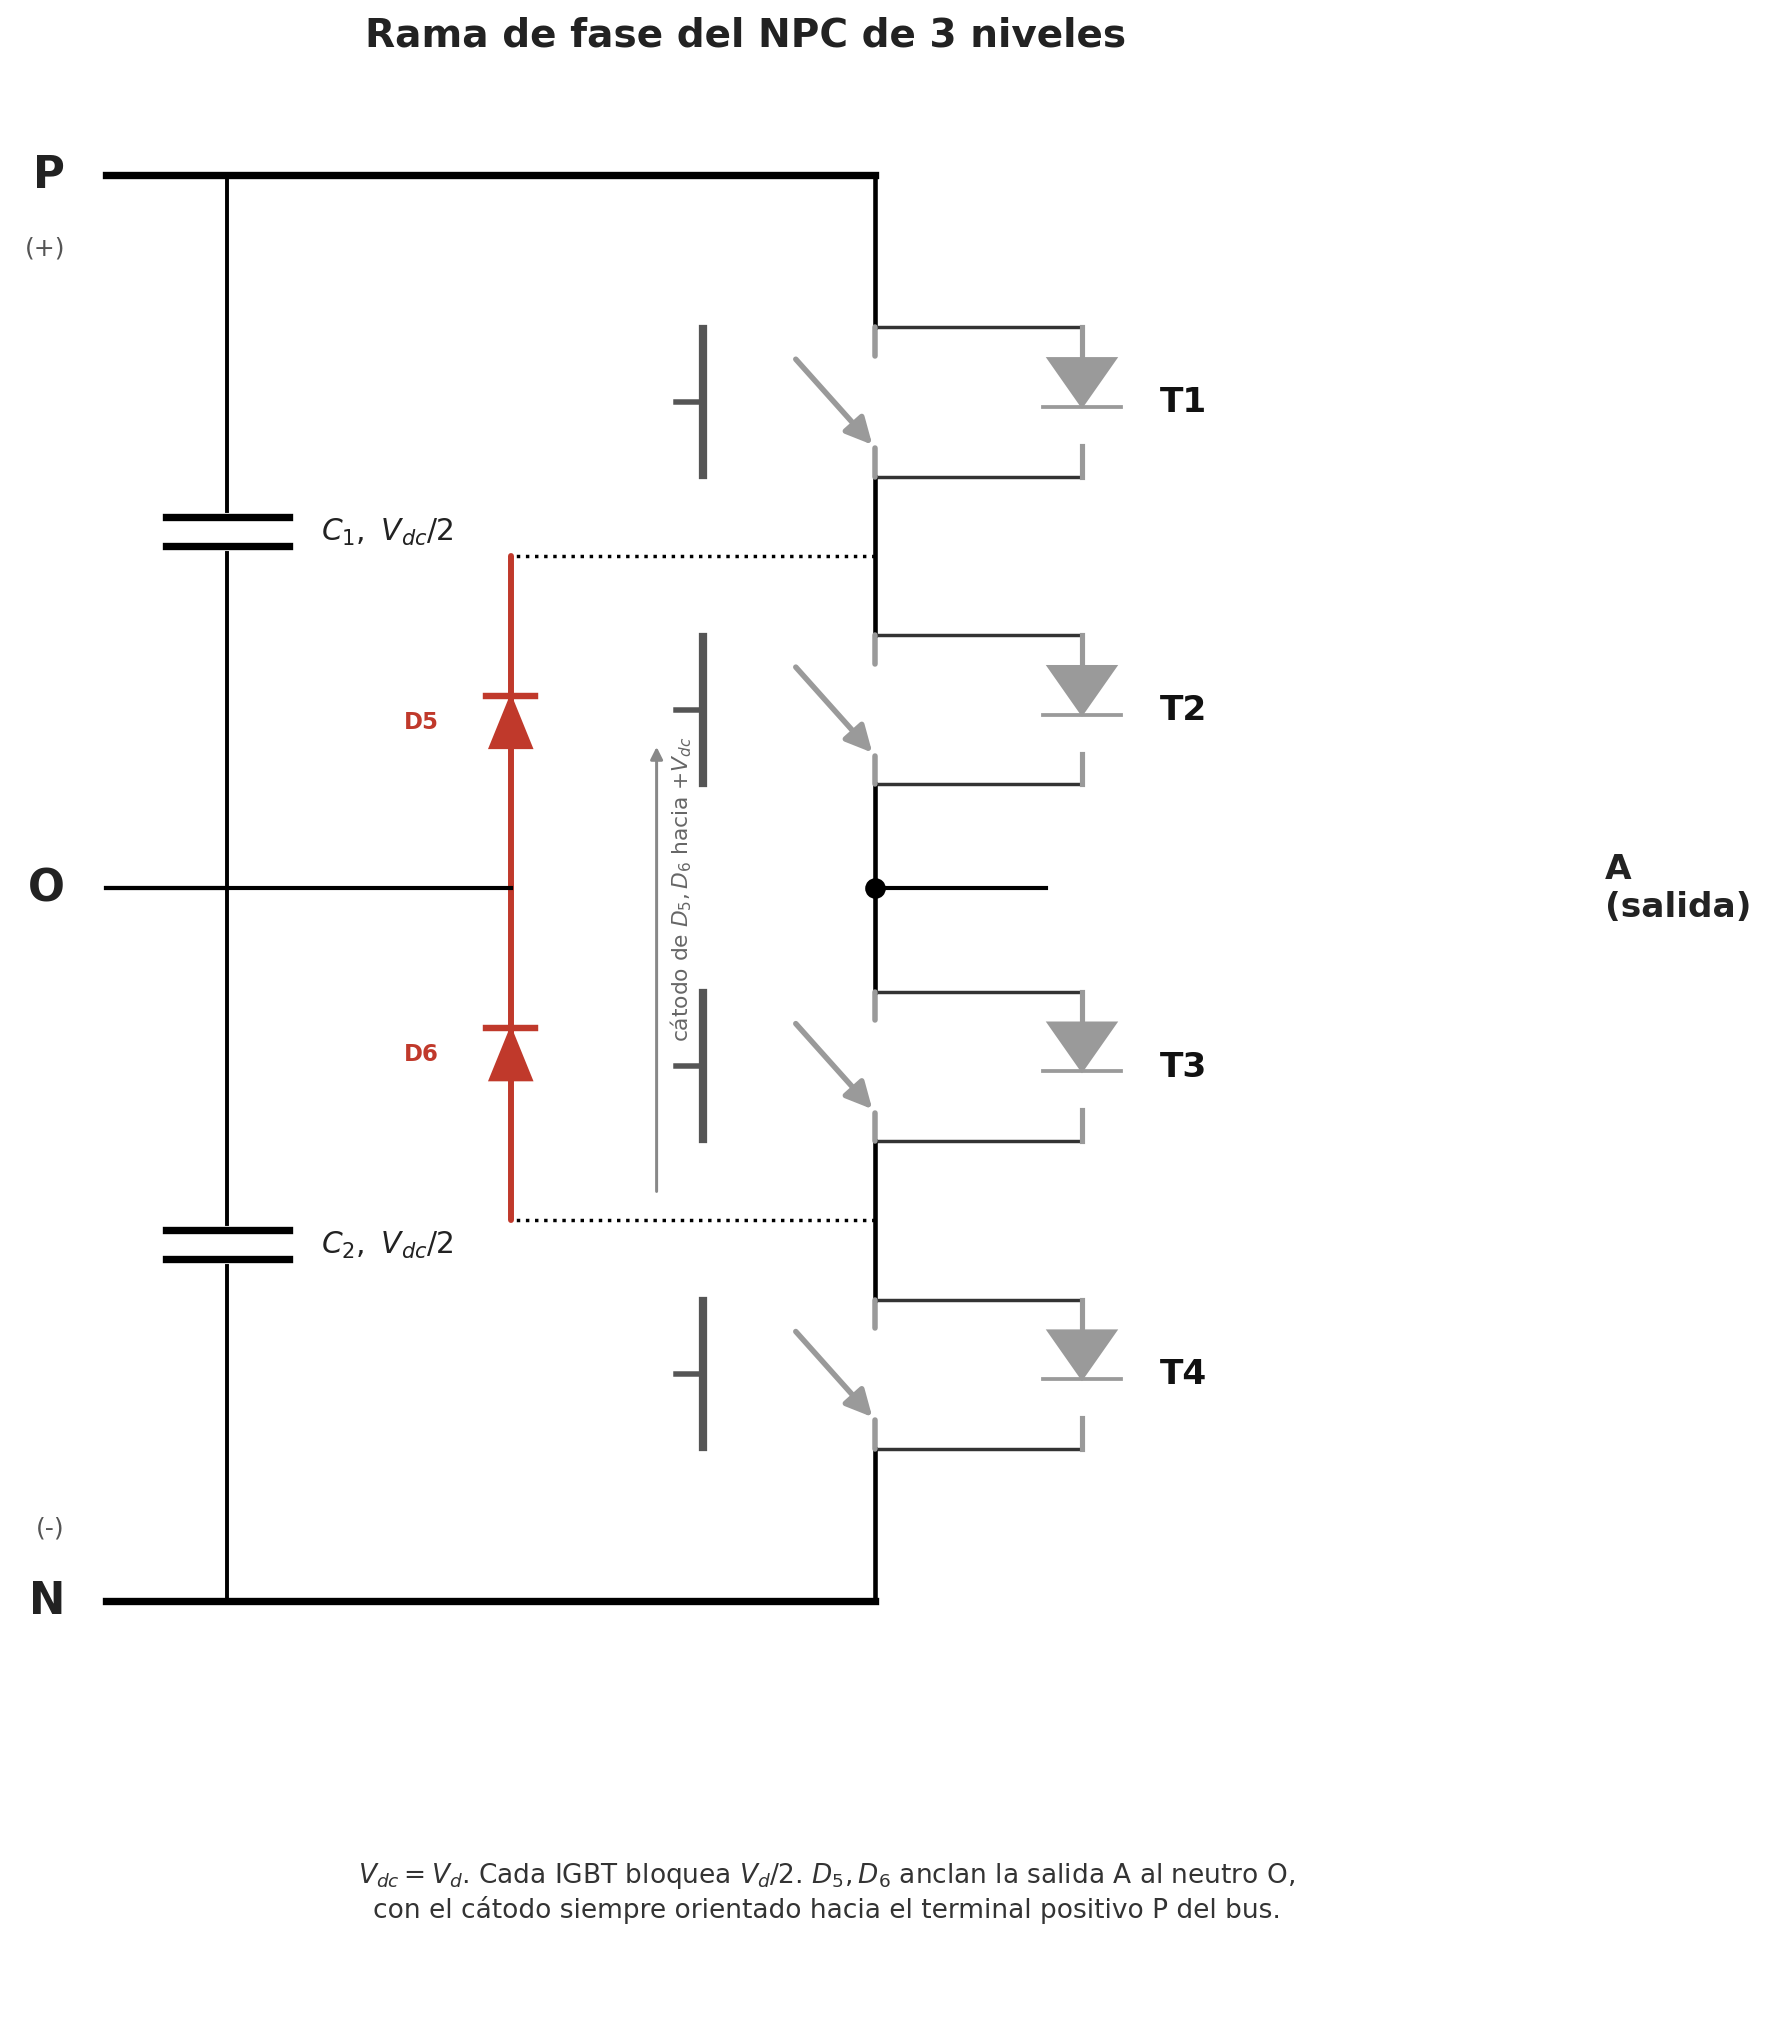
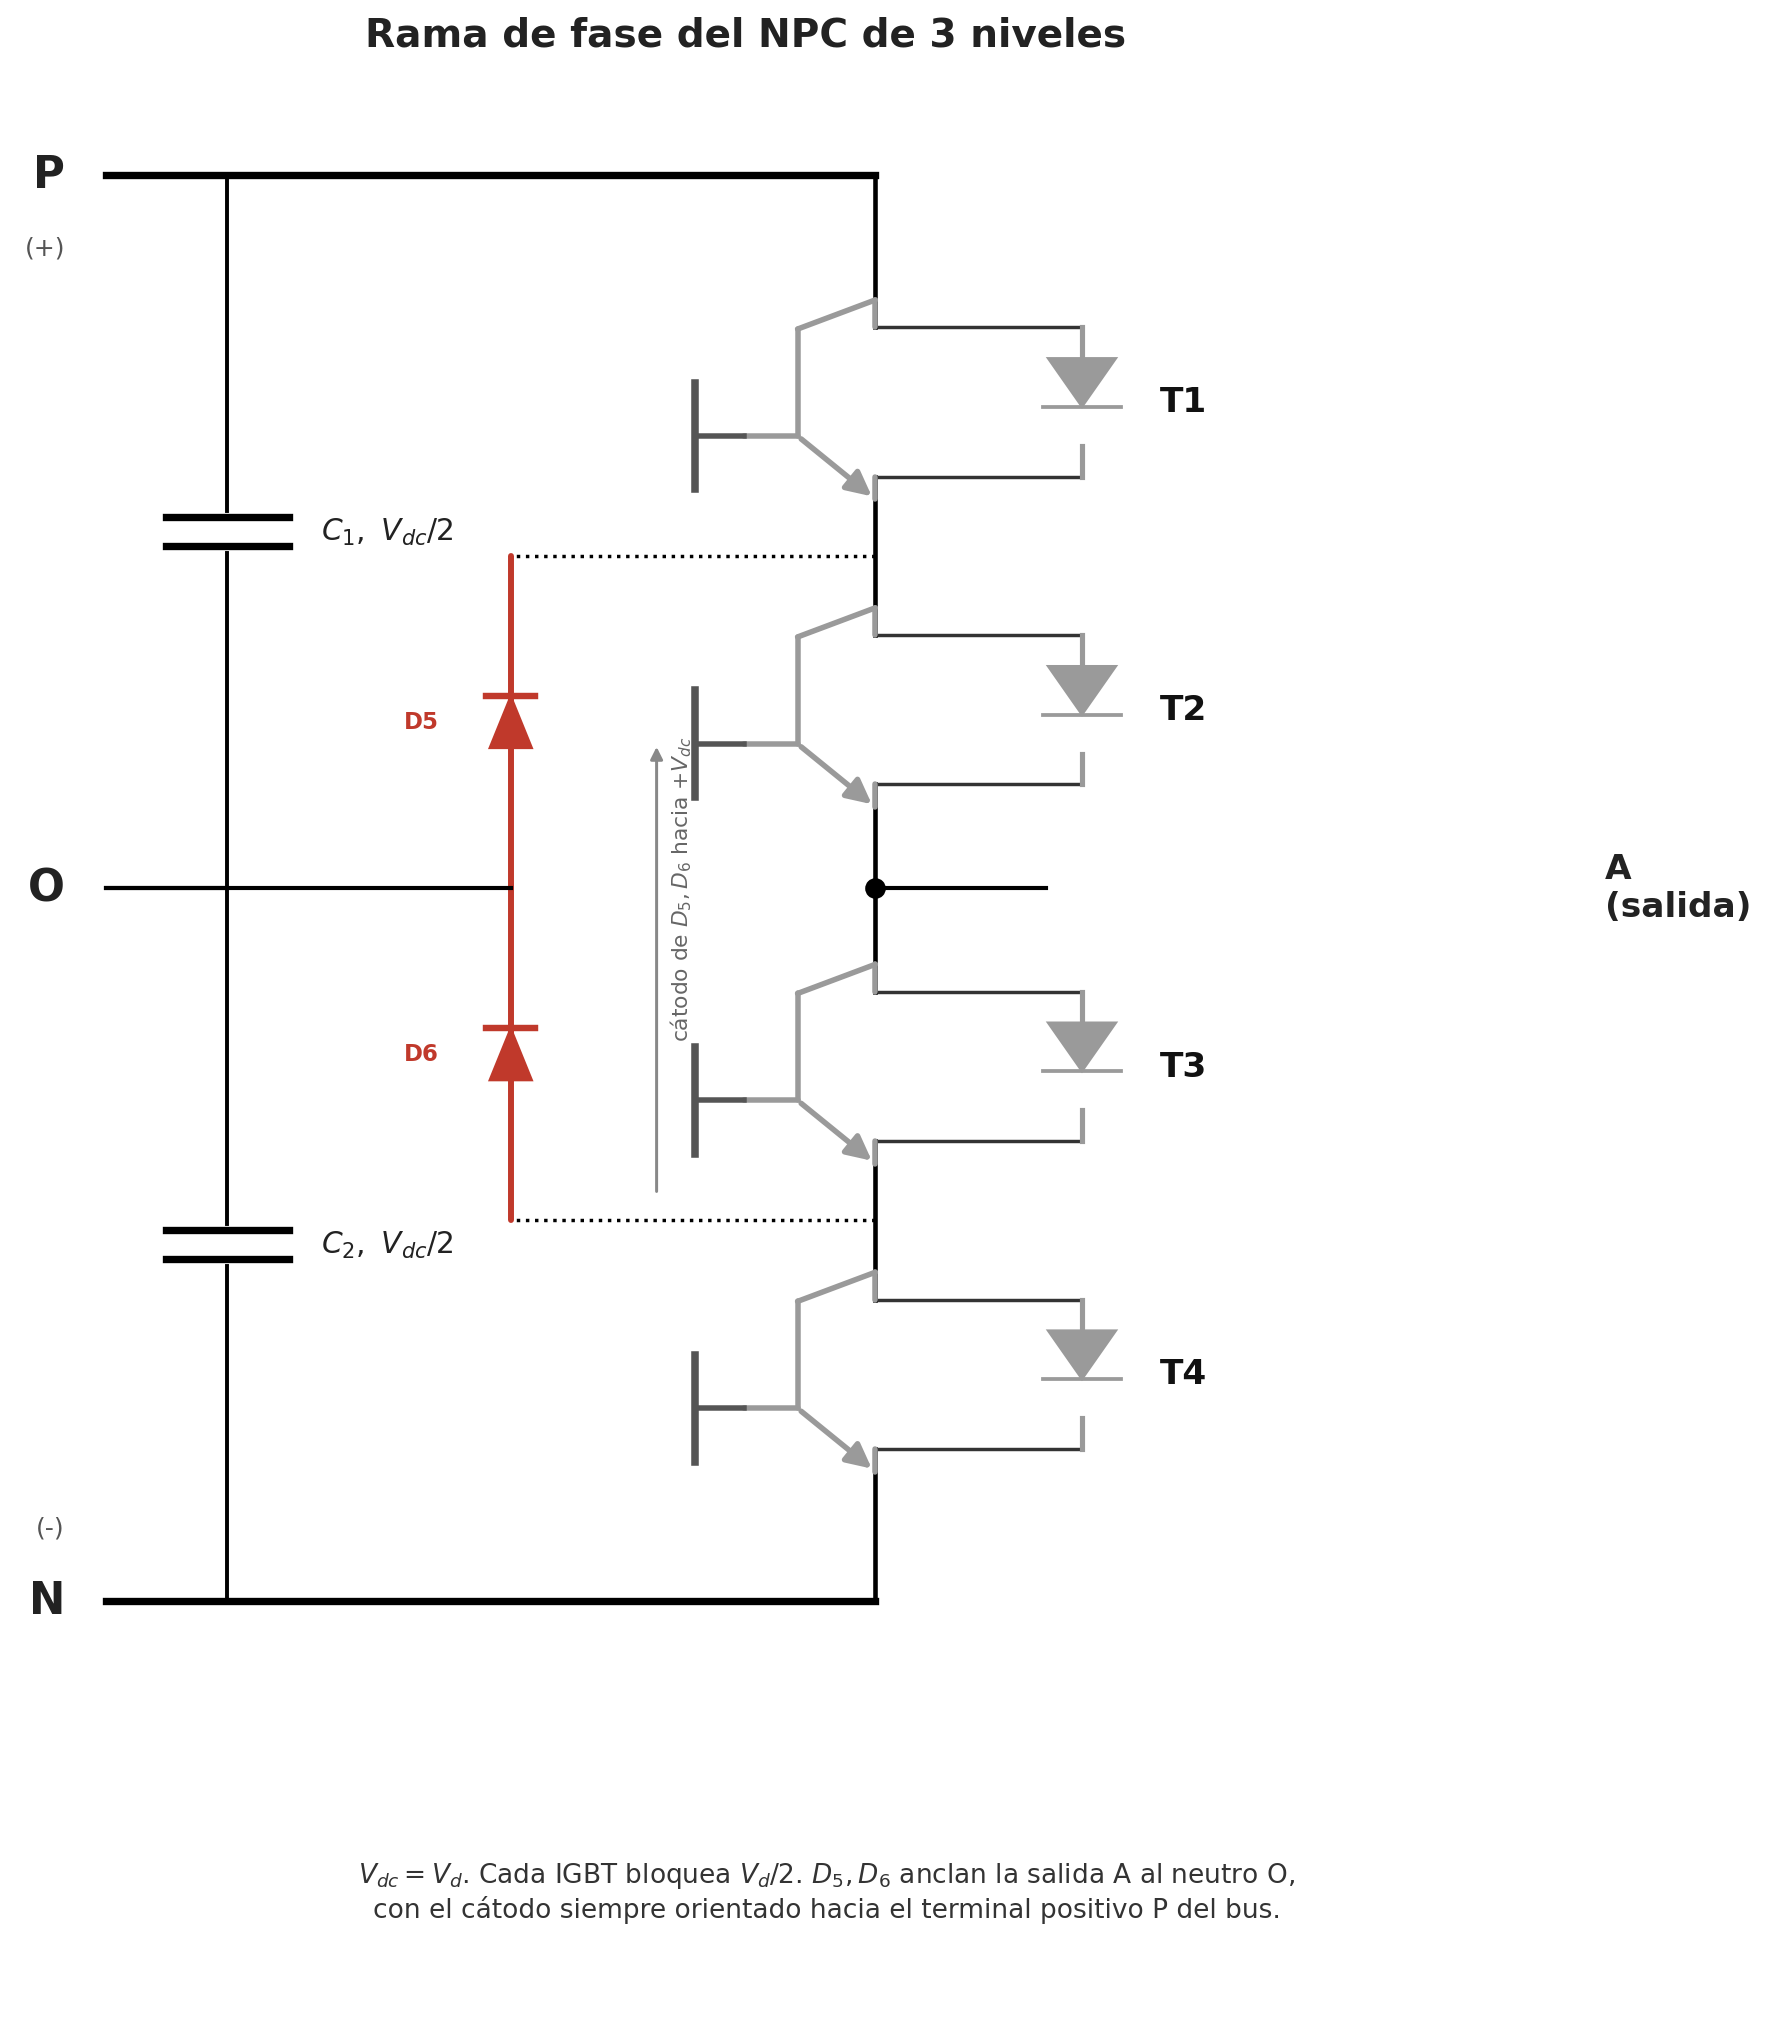
npc: rehace el simbolo IGBT calcado del SVG oficial de Wikimedia y arregla los ejes del hexagono SVM
Simbolo IGBT: geometria extraida directamente de las coordenadas del SVG
"IGBT_symbol.svg" (Wikimedia Commons) -- canal en forma de L con codo,
diagonales de conexion arriba (a colector) y abajo (a emisor, con la flecha),
puerta tocando el codo de la L. Reemplaza el intento anterior que no seguia
ninguna referencia real.

Hexagono SVM: los ejes a/b/c eran del mismo color que las lineas de la
reticula normal y se volvian indistinguibles en su tramo interior (mismo
gris, misma direccion que las aristas de los triangulos). Se dibujan ahora
solo en el tramo exterior al hexagono con un color propio (azul), evitando
la confusion visual con la reticula.

diff --git a/00 - Repositorio/gen_figuras.py b/00 - Repositorio/gen_figuras.py
@@ -15182,25 +15182,34 @@ def _npc_igbt_symbol(ax, x, y, h=0.80, on=None, diode_on=None, label='',
     lw_d = 2.6*s if diode_on is not None else 1.1*s
 
     top, bot = y+h/2, y-h/2
-    # --- simbolo IGBT canal N (geometria estandar de datasheet: Infineon,
-    # Mitsubishi, Wikipedia "IGBT schematic symbol"): patilla de colector
-    # recta en el eje x desde arriba, patilla de emisor recta en el MISMO eje
-    # hacia abajo; entre ambas, un unico trazo diagonal corto (~55 grados)
-    # que cruza el eje y termina en punta de flecha hacia afuera marcando el
-    # terminal de emisor (igual que un BJT NPN). La puerta es un electrodo
-    # vertical aislado (una placa corta, SEPARADA por un hueco de la diagonal
-    # -- simbolo de control por campo, no por contacto), a la izquierda. ---
-    barc, bare = y+0.19*s, y-0.19*s
-    ax.plot([x, x], [top, barc], color=col_t, lw=lw_t, zorder=3, solid_capstyle='round')
-    ax.plot([x, x], [bare, bot], color=col_t, lw=lw_t, zorder=3, solid_capstyle='round')
-    # trazo diagonal (paleta) que cruza el eje: de (colector, a la izquierda)
-    # a (emisor, sobre el eje), con la flecha en la propia punta de llegada
-    ax.annotate('', xy=(x, bare), xytext=(x-0.34*s, barc),
-                arrowprops=dict(arrowstyle='-|>', color=col_t, lw=lw_t, mutation_scale=16*s), zorder=3)
-    # puerta: placa vertical aislada, con hueco respecto a la diagonal (sin tocarla)
-    gx = x - 0.62*s
-    ax.plot([gx-0.20*s, gx-0.09*s], [y, y], color='#555', lw=1.6*s, zorder=3)
-    ax.plot([gx-0.09*s, gx-0.09*s], [y-0.30*s, y+0.30*s], color='#555', lw=2.4*s, zorder=3)
+    # --- simbolo IGBT canal N, geometria calcada del SVG de referencia
+    # "IGBT_symbol.svg" (Wikimedia Commons, licencia libre): un eje C-E recto
+    # y desplazado a la DERECHA (x); a la izquierda de ese eje, el "canal" en
+    # forma de L (baja recto, luego un tramo horizontal corto hacia la
+    # puerta); el eje se conecta al canal por arriba con una diagonal corta
+    # (hacia el terminal de colector) y por abajo con OTRA diagonal que
+    # termina en la flecha de emisor (apunta hacia fuera, abajo-derecha,
+    # como un BJT NPN); la puerta es una placa aislada, horizontal+vertical,
+    # que toca el codo de la L (no el eje central). ---
+    xa = x                              # eje recto C-E (terminales, alineado con el bus externo)
+    xc = x - 0.32*s                    # columna del canal (a la izquierda del eje)
+    yc_top, yc_bot = y+0.30*s, y-0.14*s    # extremos verticales del tramo recto del canal
+    # patillas rectas externas (colector arriba, emisor abajo), en el eje xa
+    ax.plot([xa, xa], [top, y+0.42*s], color=col_t, lw=lw_t, zorder=3, solid_capstyle='round')
+    ax.plot([xa, xa], [y-0.40*s, bot], color=col_t, lw=lw_t, zorder=3, solid_capstyle='round')
+    # canal en L: tramo vertical recto + codo horizontal corto hacia la puerta
+    ax.plot([xc, xc], [yc_top, yc_bot], color=col_t, lw=lw_t, zorder=3, solid_capstyle='round')
+    ax.plot([xc, xc-0.22*s], [yc_bot, yc_bot], color=col_t, lw=lw_t, zorder=3, solid_capstyle='round')
+    # diagonal superior: conecta el canal con la patilla de colector
+    ax.plot([xc, xa], [yc_top, y+0.42*s], color=col_t, lw=lw_t, zorder=3, solid_capstyle='round')
+    # diagonal inferior CON flecha: conecta el canal con la patilla de emisor
+    # (la propia punta de flecha marca el terminal de emisor, hacia afuera)
+    ax.annotate('', xy=(xa, y-0.40*s), xytext=(xc, yc_bot),
+                arrowprops=dict(arrowstyle='-|>', color=col_t, lw=lw_t, mutation_scale=15*s), zorder=3)
+    # puerta: electrodo aislado que toca el codo de la L (linea corta + placa)
+    gx = xc - 0.22*s
+    ax.plot([gx-0.20*s, gx], [yc_bot, yc_bot], color='#555', lw=1.6*s, zorder=3)
+    ax.plot([gx-0.20*s, gx-0.20*s], [yc_bot-0.22*s, yc_bot+0.22*s], color='#555', lw=2.2*s, zorder=3)
 
     # --- diodo antiparalelo: componente propio en su propia rama vertical,
     # a la derecha, unido por conductores horizontales arriba (colector) y
@@ -15853,14 +15862,18 @@ def _npc_svm():
                     style='italic', zorder=6,
                     bbox=dict(boxstyle='circle,pad=0.15', facecolor='white', edgecolor=col, lw=0.8))
 
-    # --- ejes a, b, c: flechas reales desde el origen (no lineas discontinuas) ---
+    # --- ejes a, b, c: flechas reales, en color distintivo y SOLO en el tramo
+    # exterior al hexagono (dentro, coinciden exactamente con lineas de la
+    # reticula normal y se confundirian con ellas si se dibujaran encima) ---
+    col_axis = '#2e5090'
     for ang, lbl in [(0, 'a'), (120, 'b'), (240, 'c')]:
         rad = np.radians(ang)
-        xe, ye = 1.06*R*np.cos(rad), 1.06*R*np.sin(rad)
-        ax.annotate('', xy=(xe, ye), xytext=(0, 0), zorder=0,
-                    arrowprops=dict(arrowstyle='-|>', color='#666', lw=1.8, mutation_scale=20))
-        ax.text(1.34*R*np.cos(rad), 1.34*R*np.sin(rad), lbl, fontsize=18, fontweight='bold',
-                ha='center', va='center', color='#444')
+        x0, y0 = R*np.cos(rad), R*np.sin(rad)          # borde del hexagono (vertice largo)
+        xe, ye = 1.16*R*np.cos(rad), 1.16*R*np.sin(rad)  # punta de la flecha
+        ax.annotate('', xy=(xe, ye), xytext=(x0, y0), zorder=7,
+                    arrowprops=dict(arrowstyle='-|>', color=col_axis, lw=2.4, mutation_scale=22))
+        ax.text(1.38*R*np.cos(rad), 1.38*R*np.sin(rad), lbl, fontsize=18, fontweight='bold',
+                ha='center', va='center', color=col_axis)
 
     ax.text(0, -1.6*R, r'Notación: cada vértice muestra $(S_a S_b S_c)$ con $S_k\in\{+,0,-\}$; el número en círculo'
             ' es la multiplicidad (cuántas ternas distintas caen en ese mismo punto físico).'
